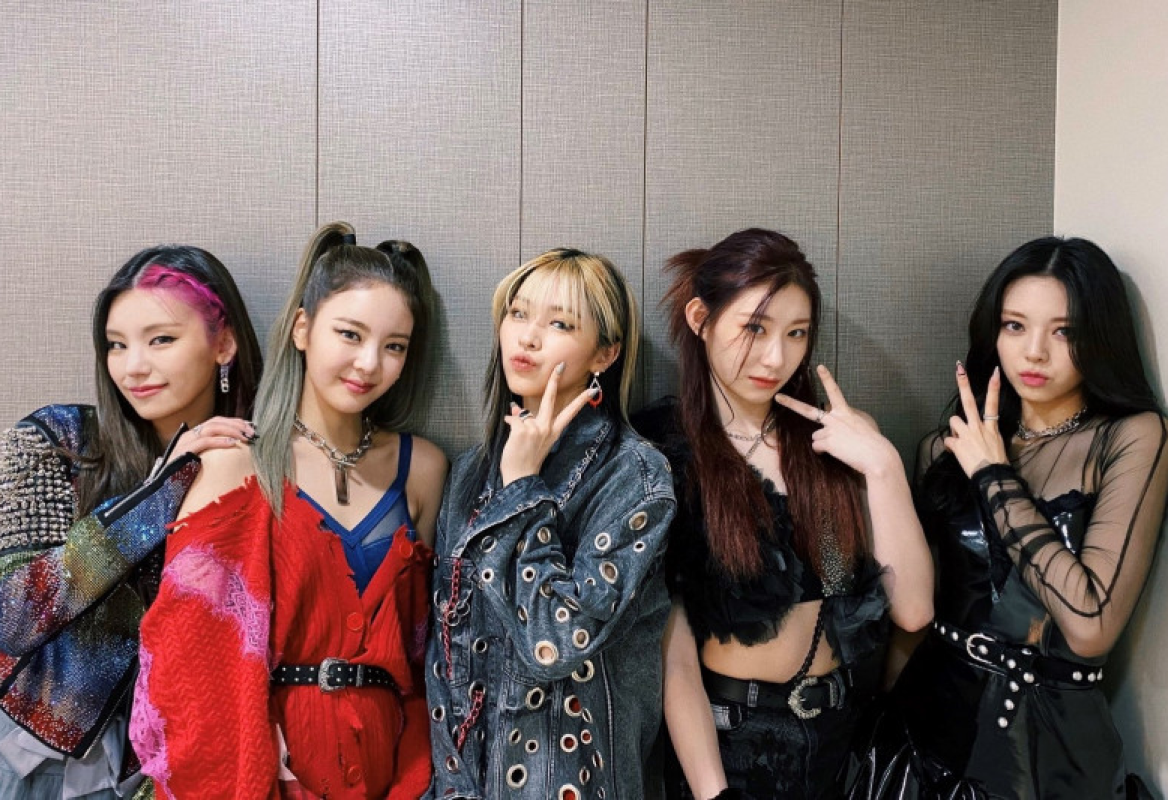
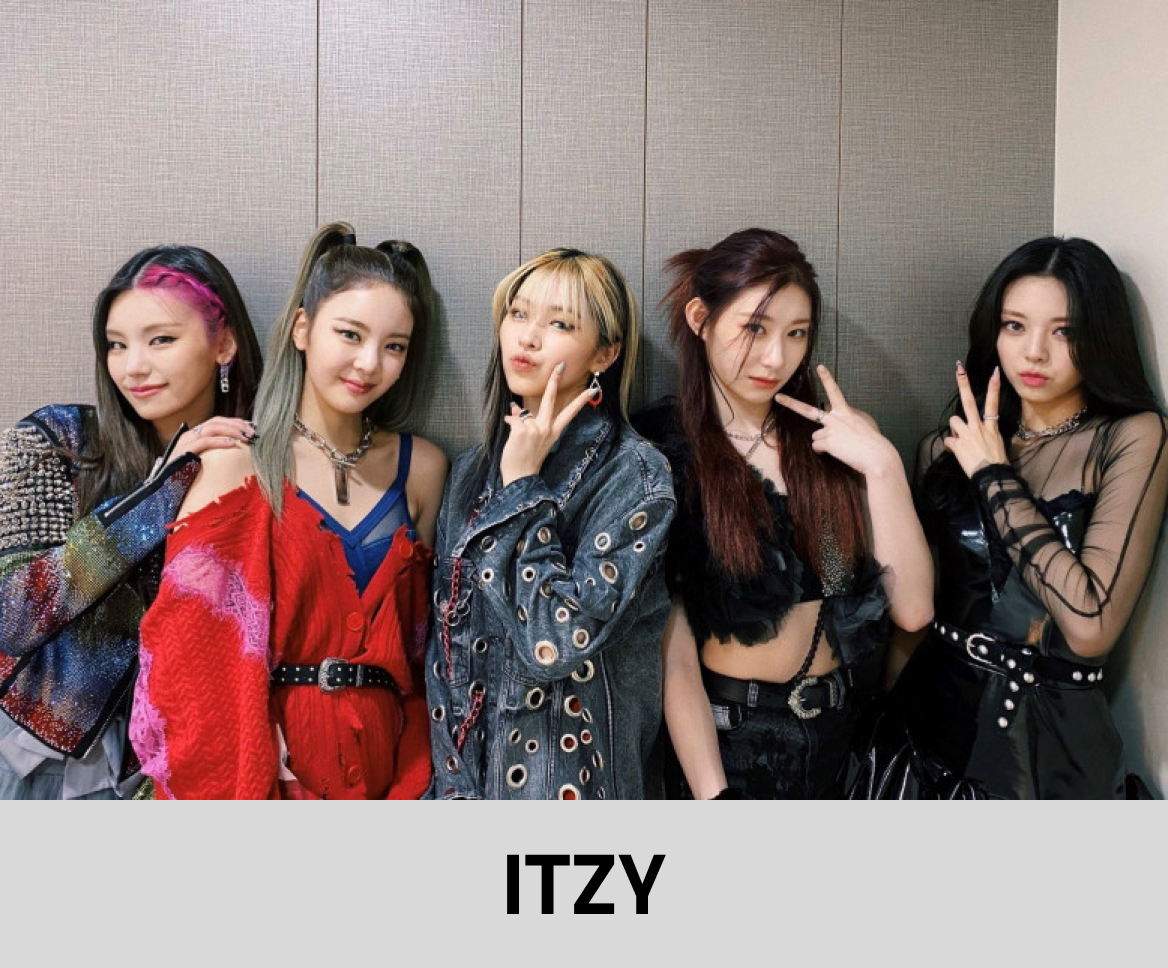
#3 - all - controller - buat controller to route about, home, dan artist group
Notes:
1. bikin footer
2. bikin updated_at dan deleted_at jadi nullable
3. benerin \n seeder di AboutInfoSeeder
4. satuin nama grup dan gambar jadi satu image

diff --git a/public/css/home.css b/public/css/home.css
@@ -1,6 +1,21 @@
 body {
-    max-height: 100vh;
+    min-height: 100vh;
     max-width: 100vw;
+    margin: 0;
+    position: relative;
+}
+
+/*body::after {*/
+/*    content: '';*/
+/*    display: block;*/
+/*    height: 5rem; !* Set same as footer's height *!*/
+/*}*/
+
+.footer {
+    position: absolute;
+    bottom: 0;
+    width: 100%;
+    height: 6.5rem;
 }
 
 .navigation-bar ul li {
@@ -10,4 +25,33 @@ body {
 .navigation-bar ul li:hover {
     background-color: #cca0a0;
     padding: 0.8rem 0.4rem;
+}
+
+.navigation-footer a:hover {
+    opacity: 0.6;
+}
+
+.image-container {
+    position: relative;
+}
+
+.image-overlay {
+    position: absolute;
+    top: 0;
+    bottom: 0;
+    left: 0;
+    right: 0;
+    height: 100%;
+    width: 100%;
+    opacity: 0;
+}
+
+.image-container:hover .image-overlay {
+    opacity: 1;
+    transition: .3s ease;
+}
+
+.image-container:hover .image-original {
+    opacity: 0;
+    transition: .3s ease;
 }

diff --git a/resources/views/main/home.blade.php b/resources/views/main/home.blade.php
@@ -13,48 +13,18 @@
 @include('main.header')
 
 <div style="" class="">
-    <div id="carouselExampleIndicators" class="carousel slide" data-bs-ride="carousel">
-        <div class="carousel-indicators">
-            <button type="button" data-bs-target="#carouselExampleIndicators" data-bs-slide-to="0" class="active"
-                    aria-current="true" aria-label="Slide 1" style="background-color: white;"></button>
-            <button type="button" data-bs-target="#carouselExampleIndicators" data-bs-slide-to="1"
-                    aria-label="Slide 2" style="background-color: white;"></button>
-            <button type="button" data-bs-target="#carouselExampleIndicators" data-bs-slide-to="2"
-                    aria-label="Slide 3" style="background-color: white;"></button>
-            <button type="button" data-bs-target="#carouselExampleIndicators" data-bs-slide-to="3"
-                    aria-label="Slide 4" style="background-color: white;"></button>
-        </div>
-
-        <div class="carousel-inner">
-            <div class="carousel-item active">
-                <img src="{{ asset('/images/home/slide_1.png') }}" alt="slide 1" class=""
-                     style="width: 100vw; height: 100vh; object-fit: cover;">
-            </div>
-            <div class="carousel-item">
-                <img src="{{ asset('/images/home/slide_2.png') }}" alt="slide 2" class=""
-                     style="width: 100vw; height: 100vh; object-fit: cover;">
-            </div>
-            <div class="carousel-item">
-                <img src="{{ asset('/images/home/slide_3.png') }}" alt="slide 3" class=""
-                     style="width: 100vw; height: 100vh; object-fit: cover;">
-            </div>
-            <div class="carousel-item">
-                <img src="{{ asset('/images/home/slide_4.png') }}" alt="slide 4" class=""
-                     style="width: 100vw; height: 100vh; object-fit: cover;">
-            </div>
-        </div>
-{{--        <button class="carousel-control-prev" type="button" data-bs-target="#carouselExampleIndicators"--}}
-{{--                data-bs-slide="prev">--}}
-{{--            <span class="carousel-control-prev-icon" aria-hidden="true"></span>--}}
-{{--            <span class="visually-hidden">Previous</span>--}}
-{{--        </button>--}}
-{{--        <button class="carousel-control-next" type="button" data-bs-target="#carouselExampleIndicators"--}}
-{{--                data-bs-slide="next">--}}
-{{--            <span class="carousel-control-next-icon" aria-hidden="true"></span>--}}
-{{--            <span class="visually-hidden">Next</span>--}}
-{{--        </button>--}}
-    </div>
+    @if($active == 'about')
+        @include('containers.container-about')
+    @elseif($active == 'artist_group')
+        @include('containers.container-artist-group')
+    @else
+        @include('containers.container-home')
+    @endif
 </div>
+
+@if($active != 'home')
+    @include('main.footer')
+@endif
 </body>
 <script src="https://cdn.jsdelivr.net/npm/bootstrap@5.2.3/dist/js/bootstrap.bundle.min.js"></script>
 </html>

diff --git a/database/seeders/AboutInfoSeeder.php b/database/seeders/AboutInfoSeeder.php
@@ -25,10 +25,10 @@ class AboutInfoSeeder extends Seeder
         // mission
         AboutInfo::insert([
             'type' => 'Mission',
-            'description' => "Celebrating K-Pop Excellence: Our mission is to provide a platform that celebrates the excellence of K-Pop artists, their music, and their performances. We aim to showcase the diverse talents and captivating entertainment that K-Pop has to offer.\n
-            Global Engagement: We strive to connect K-Pop enthusiasts from around the world by delivering high-quality content, fostering a sense of community, and promoting cross-cultural exchange. Through our platform, we aim to bridge the gap between K-Pop artists and their international fanbase.\n
-            Discovering New Talent: We are dedicated to scouting and nurturing emerging K-Pop talents, providing them with the guidance, resources, and opportunities needed to shine in the highly competitive industry. We aim to be a catalyst for discovering the next generation of K-Pop superstars.\n
-            Elevating Fan Experiences: Our mission is to create unforgettable experiences for K-Pop fans by organizing interactive events, concerts, and fan meet-ups. We aim to cultivate an engaging and immersive environment that allows fans to connect with their favorite artists and fellow enthusiasts.\n
+            'description' => "Celebrating K-Pop Excellence: Our mission is to provide a platform that celebrates the excellence of K-Pop artists, their music, and their performances. We aim to showcase the diverse talents and captivating entertainment that K-Pop has to offer.
+            Global Engagement: We strive to connect K-Pop enthusiasts from around the world by delivering high-quality content, fostering a sense of community, and promoting cross-cultural exchange. Through our platform, we aim to bridge the gap between K-Pop artists and their international fanbase.
+            Discovering New Talent: We are dedicated to scouting and nurturing emerging K-Pop talents, providing them with the guidance, resources, and opportunities needed to shine in the highly competitive industry. We aim to be a catalyst for discovering the next generation of K-Pop superstars.
+            Elevating Fan Experiences: Our mission is to create unforgettable experiences for K-Pop fans by organizing interactive events, concerts, and fan meet-ups. We aim to cultivate an engaging and immersive environment that allows fans to connect with their favorite artists and fellow enthusiasts.
             Promoting Cultural Exchange: We believe in the power of K-Pop to transcend borders and promote cultural understanding. Through collaborations, partnerships, and philanthropic initiatives, we aim to contribute to the global appreciation and recognition of Korean culture.",
             'created_at' => $nowDate
         ]);

diff --git a/resources/views/containers/container-home.blade.php b/resources/views/containers/container-home.blade.php
@@ -13,20 +13,28 @@
 
         <div class="carousel-inner">
             <div class="carousel-item active">
-                <img src="{{ asset('/images/home/slide_1.png') }}" alt="slide 1" class=""
-                     style="width: 100vw; height: 100vh; object-fit: cover;">
+                <a href="">
+                    <img src="{{ asset('/images/home/slide_1.png') }}" alt="slide 1" class=""
+                         style="width: 100vw; height: 100vh; object-fit: cover;">
+                </a>
             </div>
             <div class="carousel-item">
-                <img src="{{ asset('/images/home/slide_2.png') }}" alt="slide 2" class=""
-                     style="width: 100vw; height: 100vh; object-fit: cover;">
+                <a href="">
+                    <img src="{{ asset('/images/home/slide_2.png') }}" alt="slide 2" class=""
+                         style="width: 100vw; height: 100vh; object-fit: cover;">
+                </a>
             </div>
             <div class="carousel-item">
-                <img src="{{ asset('/images/home/slide_3.png') }}" alt="slide 3" class=""
-                     style="width: 100vw; height: 100vh; object-fit: cover;">
+                <a href="">
+                    <img src="{{ asset('/images/home/slide_3.png') }}" alt="slide 3" class=""
+                         style="width: 100vw; height: 100vh; object-fit: cover;">
+                </a>
             </div>
             <div class="carousel-item">
-                <img src="{{ asset('/images/home/slide_4.png') }}" alt="slide 4" class=""
-                     style="width: 100vw; height: 100vh; object-fit: cover;">
+                <a href="">
+                    <img src="{{ asset('/images/home/slide_4.png') }}" alt="slide 4" class=""
+                         style="width: 100vw; height: 100vh; object-fit: cover;">
+                </a>
             </div>
         </div>
         {{--        <button class="carousel-control-prev" type="button" data-bs-target="#carouselExampleIndicators"--}}

diff --git a/resources/views/containers/container-about.blade.php b/resources/views/containers/container-about.blade.php
@@ -1,0 +1,46 @@
+<div class="container" style="margin-top: 2rem;">
+    @foreach($aboutItems as $aboutItemKey => $aboutItemValue)
+        <div class="mb-5">
+            <div class="d-flex align-items-center">
+                @if($aboutItemValue['about_info_id'] == 1)
+                    <img src="{{ asset('/images/logo/vision.png') }}" alt="vision" class=""
+                         style="width: 4%;">
+                @else
+                    <img src="{{ asset('/images/logo/mission.png') }}" alt="vision" class=""
+                         style="width: 4%;">
+                @endif
+
+                <div style="font-size: 16pt; font-weight: bold;" class="ms-3 text-uppercase">
+                    <span>{{ $aboutItemValue['type'] }}</span>
+                </div>
+            </div>
+
+            @php($descriptionSplit = explode("\n", $aboutItemValue['description']))
+            <div class="mt-2 ms-2" style="font-size: 14pt;">
+                @if($aboutItemValue['about_info_id'] == 1)
+                    {{ $aboutItemValue['description'] }}
+                @else
+                    @php($number = 1)
+                    <table style="width: 100%;">
+                        <colgroup>
+                            <col style="width: 2%;">
+                            <col>
+                        </colgroup>
+                        <tbody>
+                        @foreach($descriptionSplit as $descKey => $descValue)
+                            <tr>
+                                <td class="align-top">
+                                    {{ $number++ }}.
+                                </td>
+                                <td style="text-align: justify;">
+                                    {{ $descValue }}
+                                </td>
+                            </tr>
+                        @endforeach
+                        </tbody>
+                    </table>
+                @endif
+            </div>
+        </div>
+    @endforeach
+</div>

diff --git a/resources/views/main/footer.blade.php b/resources/views/main/footer.blade.php
@@ -1,0 +1,34 @@
+<nav class="navbar navbar-light footer" style="border-top: solid black 5px;">
+    <div class="container-fluid d-flex align-items-center justify-content-between ps-5 pe-5 pb-2">
+        <div>
+            <div class="fw-bold mb-2" style="font-size: 12pt;">DREAM Entertainment</div>
+            <div class="fw-bold" style="font-size: 9pt;">Copyright &copy; DREAM Entertainment, All Rights Reserved</div>
+        </div>
+
+        <div class="text-center">
+            <div style="font-size: 12pt;" class="fw-bold mb-2">Follow Us!</div>
+
+            <div class="d-flex justify-content-center align-items-center navigation-footer">
+                <a class="d-flex justify-content-center align-items-center me-4" href="#" style="width: 30%;">
+                    <img src="{{ asset('/images/logo/fb.png') }}" alt="facebook"
+                         class="" style="width: 2.5rem;">
+                </a>
+
+                <a class="d-flex justify-content-center align-items-center me-4" href="#" style="width: 30%;">
+                    <img src="{{ asset('/images/logo/twitter.png') }}" alt="twitter"
+                         class="" style="width: 2.5rem;">
+                </a>
+
+                <a class="d-flex justify-content-center align-items-center me-4" href="https://www.youtube.com/watch?v=xvFZjo5PgG0" target="_blank" style="width: 30%;">
+                    <img src="{{ asset('/images/logo/yt.png') }}" alt="youtube"
+                         class="" style="width: 2.5rem;">
+                </a>
+
+                <a class="d-flex justify-content-center align-items-center" href="#" style="width: 30%;">
+                    <img src="{{ asset('/images/logo/ig.png') }}" alt="instagram"
+                         class="" style="width: 2.5rem;">
+                </a>
+            </div>
+        </div>
+    </div>
+</nav>

diff --git a/resources/views/main/header.blade.php b/resources/views/main/header.blade.php
@@ -7,12 +7,12 @@
     <div class="text-end navigation-bar">
         <ul class="nav d-flex justify-content-evenly align-items-center container-fluid" style="">
             <li class="nav-item">
-                <a class="d-flex justify-content-center align-items-center nav-link" href="#">
+                <a class="d-flex justify-content-center align-items-center nav-link" href="/">
                     <span style="color: black; font-weight: bolder; font-size: 14pt;" class="navigation-a">HOME</span>
                 </a>
             </li>
             <li class="nav-item">
-                <a class="d-flex justify-content-center align-items-center nav-link" href="#">
+                <a class="d-flex justify-content-center align-items-center nav-link" href="/artist-group">
                     <span style="color: black; font-weight: bolder; font-size: 14pt; " class="navigation-a">ARTISTS</span>
                 </a>
             </li>
@@ -22,7 +22,7 @@
                 </a>
             </li>
             <li class="nav-item">
-                <a class="d-flex justify-content-center align-items-center nav-link" href="#">
+                <a class="d-flex justify-content-center align-items-center nav-link" href="/about">
                     <span style="color: black; font-weight: bolder; font-size: 14pt;" class="navigation-a">ABOUT</span>
                 </a>
             </li>

diff --git a/resources/views/containers/container-artist-group.blade.php b/resources/views/containers/container-artist-group.blade.php
@@ -1,0 +1,25 @@
+<div class="container text-center" style="margin-top: 2rem;">
+    <div class="row row-cols-{{ $gridRowCol }}">
+        @foreach($artistGroupItems as $artistGroupKey => $artistGroupValue)
+            <div class="col">
+                <a href="/artist-group/{{ $artistGroupValue['group_name'] }}" style="text-decoration: none !important;">
+                    <div class="text-center mb-5">
+                        <div class="image-container text-center">
+                            <div class="image-original text-center">
+                                <img src="{{ asset($artistGroupValue['group_photo_url']) }}" alt="dream logo"
+                                     class="" style="width: 27rem; object-fit: cover;">
+                            </div>
+
+                            <div class="image-overlay text-center">
+                                <img src="{{ asset($artistGroupValue['group_photo_url_hovered']) }}" alt="dream logo"
+                                     class="" style="width: 27rem;">
+                            </div>
+                        </div>
+                    </div>
+                </a>
+            </div>
+        @endforeach
+    </div>
+</div>
+
+<br><br><br><br>

diff --git a/app/Http/Controllers/ArtistGroupController.php b/app/Http/Controllers/ArtistGroupController.php
@@ -13,7 +13,16 @@ class ArtistGroupController extends Controller
      */
     public function index()
     {
-        //
+        $artistGroupItems = ArtistGroup::orderBy('artist_group_id')->get();
+        $totalGroup = count($artistGroupItems);
+        $gridRowCol = ceil($totalGroup / 2);
+
+        return view('/main/home', [
+            'active' => 'artist_group',
+            'artistGroupItems' => $artistGroupItems,
+            'totalGroup' => $totalGroup,
+            'gridRowCol' => $gridRowCol
+        ]);
     }
 
     /**

diff --git a/database/migrations/2023_06_06_071453_create_albums_table.php b/database/migrations/2023_06_06_071453_create_albums_table.php
@@ -19,8 +19,8 @@ return new class extends Migration
             $table->string('group_photo_url');
             $table->longText('album_info');
             $table->dateTime('created_at');
-            $table->dateTime('updated_at');
-            $table->dateTime('deleted_at');
+            $table->dateTime('updated_at')->nullable();
+            $table->dateTime('deleted_at')->nullable();
 
             $table->foreign('artist_group_id')->references('artist_group_id')->on('artist_groups')->onDelete('cascade');
         });

diff --git a/database/migrations/2023_06_06_071505_create_artists_table.php b/database/migrations/2023_06_06_071505_create_artists_table.php
@@ -20,8 +20,8 @@ return new class extends Migration
             $table->string('photo_url_hovered');
             $table->longText('biodata');
             $table->dateTime('created_at');
-            $table->dateTime('updated_at');
-            $table->dateTime('deleted_at');
+            $table->dateTime('updated_at')->nullable();
+            $table->dateTime('deleted_at')->nullable();
 
             $table->foreign('artist_group_id')->references('artist_group_id')->on('artist_groups')->onDelete('cascade');
         });

diff --git a/database/migrations/2023_06_06_071621_create_tracks_table.php b/database/migrations/2023_06_06_071621_create_tracks_table.php
@@ -24,8 +24,8 @@ return new class extends Migration
             $table->string('director')->nullable();
             $table->string('additional_data')->nullable();
             $table->dateTime('created_at');
-            $table->dateTime('updated_at');
-            $table->dateTime('deleted_at');
+            $table->dateTime('updated_at')->nullable();
+            $table->dateTime('deleted_at')->nullable();
 
             $table->foreign('album_id')->references('album_id')->on('albums')->onDelete('cascade');
         });
